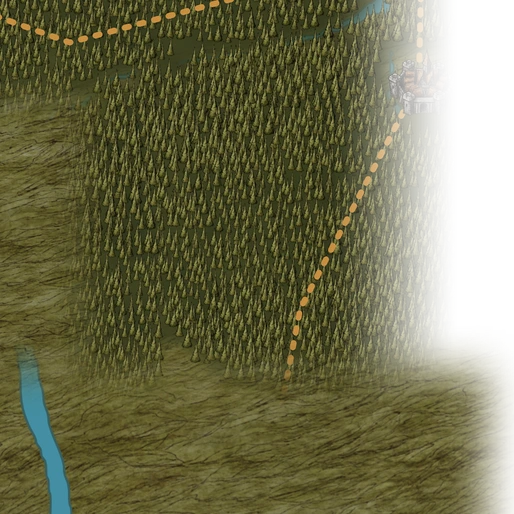
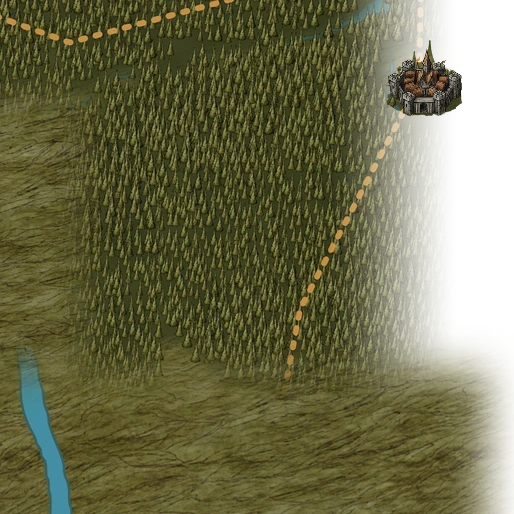
Keep Marellion artwork opaque at the northern map boundary

Changed region(s): [[0.7471, 0.0934, 0.9027, 0.249]]

diff --git a/souvisla-tara/config.js b/souvisla-tara/config.js
@@ -1,1 +1,1 @@
-window.CONTINUOUS_TARA={"bounds":[0,-60,800,695],"densities":[2.5,5,10,20],"tile":512,"present":{"dalavsky":{"0":["0-0","1-0","2-0","3-0","0-1","1-1","2-1","3-1","0-2","1-2","2-2","3-2","0-3","1-3","2-3","3-3"],"1":["2-0","3-0","4-0","5-0","0-1","1-1","2-1","3-1","4-1","5-1","6-1","7-1","0-2","1-2","2-2","3-2","4-2","5-2","0-3","1-3","2-3","3-3","4-3","5-3","6-3","0-4","1-4","2-4","3-4","4-4","5-4","6-4","0-5","1-5","2-5","3-5","4-5","5-5","6-5","0-6","1-6","2-6","3-6","4-6","5-6","6-6"],"2":["4-0","5-0","6-0","7-0","8-0","9-0","10-0","11-0","4-1","5-1","6-1","7-1","8-1","9-1","10-1","11-1","1-2","2-2","3-2","4-2","5-2","6-2","7-2","8-2","9-2","10-2","11-2","13-2","14-2","15-2","0-3","1-3","2-3","3-3","4-3","5-3","6-3","7-3","8-3","9-3","10-3","11-3","13-3","14-3","15-3","0-4","1-4","2-4","3-4","4-4","5-4","6-4","7-4","8-4","9-4","10-4","11-4","0-5","1-5","2-5","3-5","4-5","5-5","6-5","7-5","8-5","9-5","10-5","11-5","0-6","1-6","2-6","3-6","4-6","5-6","6-6","7-6","8-6","9-6","10-6","11-6","0-7","1-7","2-7","3-7","4-7","5-7","6-7","7-7","8-7","9-7","10-7","11-7","12-7","0-8","1-8","2-8","3-8","4-8","5-8","6-8","7-8","8-8","9-8","10-8","11-8","12-8","0-9","1-9","2-9","3-9","4-9","5-9","6-9","7-9","8-9","9-9","10-9","11-9","12-9","0-10","1-10","2-10","3-10","4-10","5-10","6-10","7-10","8-10","9-10","10-10","11-10","12-10","0-11","1-11","2-11","3-11","4-11","5-11","6-11","7-11","8-11","9-11","10-11","11-11","12-11","0-12","1-12","2-12","3-12","4-12","5-12","6-12","7-12","8-12","9-12","10-12","11-12","12-12","5-13","6-13","7-13","8-13","9-13","10-13"],"3":["8-0","9-0","10-0","11-0","12-0","13-0","14-0","15-0","16-0","17-0","18-0","19-0","20-0","21-0","22-0","8-1","9-1","10-1","11-1","12-1","13-1","14-1","15-1","16-1","17-1","18-1","19-1","20-1","21-1","22-1","8-2","9-2","10-2","11-2","12-2","13-2","14-2","15-2","16-2","17-2","18-2","19-2","20-2","21-2","22-2","23-2","8-3","9-3","10-3","11-3","12-3","13-3","14-3","15-3","16-3","17-3","18-3","19-3","20-3","21-3","22-3","23-3","8-4","9-4","10-4","11-4","12-4","13-4","14-4","15-4","16-4","17-4","18-4","19-4","20-4","21-4","22-4","23-4","26-4","27-4","28-4","29-4","30-4","3-5","4-5","5-5","6-5","7-5","8-5","9-5","10-5","11-5","12-5","13-5","14-5","15-5","16-5","17-5","18-5","19-5","20-5","21-5","22-5","23-5","26-5","27-5","28-5","29-5","30-5","3-6","4-6","5-6","6-6","7-6","8-6","9-6","10-6","11-6","12-6","13-6","14-6","15-6","16-6","17-6","18-6","19-6","20-6","21-6","22-6","23-6","26-6","27-6","28-6","29-6","30-6","0-7","1-7","2-7","3-7","4-7","5-7","6-7","7-7","8-7","9-7","10-7","11-7","12-7","13-7","14-7","15-7","16-7","17-7","18-7","19-7","20-7","21-7","22-7","26-7","27-7","28-7","29-7","30-7","0-8","1-8","2-8","3-8","4-8","5-8","6-8","7-8","8-8","9-8","10-8","11-8","12-8","13-8","14-8","15-8","16-8","17-8","18-8","19-8","20-8","21-8","22-8","23-8","0-9","1-9","2-9","3-9","4-9","5-9","6-9","7-9","8-9","9-9","10-9","11-9","12-9","13-9","14-9","15-9","16-9","17-9","18-9","19-9","20-9","21-9","22-9","23-9","0-10","1-10","2-10","3-10","4-10","5-10","6-10","7-10","8-10","9-10","10-10","11-10","12-10","13-10","14-10","15-10","16-10","17-10","18-10","19-10","20-10","21-10","22-10","23-10","0-11","1-11","2-11","3-11","4-11","5-11","6-11","7-11","8-11","9-11","10-11","11-11","12-11","13-11","14-11","15-11","16-11","17-11","18-11","19-11","20-11","21-11","22-11","23-11","0-12","1-12","2-12","3-12","4-12","5-12","6-12","7-12","8-12","9-12","10-12","11-12","12-12","13-12","14-12","15-12","16-12","17-12","18-12","19-12","20-12","21-12","22-12","23-12","0-13","1-13","2-13","3-13","4-13","5-13","6-13","7-13","8-13","9-13","10-13","11-13","12-13","13-13","14-13","15-13","16-13","17-13","18-13","19-13","20-13","21-13","22-13","23-13","0-14","1-14","2-14","3-14","4-14","5-14","6-14","7-14","8-14","9-14","10-14","11-14","12-14","13-14","14-14","15-14","16-14","17-14","18-14","19-14","20-14","21-14","22-14","23-14","0-15","1-15","2-15","3-15","4-15","5-15","6-15","7-15","8-15","9-15","10-15","11-15","12-15","13-15","14-15","15-15","16-15","17-15","18-15","19-15","20-15","21-15","22-15","23-15","24-15","0-16","1-16","2-16","3-16","4-16","5-16","6-16","7-16","8-16","9-16","10-16","11-16","12-16","13-16","14-16","15-16","16-16","17-16","18-16","19-16","20-16","21-16","22-16","23-16","24-16","0-17","1-17","2-17","3-17","4-17","5-17","6-17","7-17","8-17","9-17","10-17","11-17","12-17","13-17","14-17","15-17","16-17","17-17","18-17","19-17","20-17","21-17","22-17","23-17","24-17","0-18","1-18","2-18","3-18","4-18","5-18","6-18","7-18","8-18","9-18","10-18","11-18","12-18","13-18","14-18","15-18","16-18","17-18","18-18","19-18","20-18","21-18","22-18","23-18","24-18","0-19","1-19","2-19","3-19","4-19","5-19","6-19","7-19","8-19","9-19","10-19","11-19","12-19","13-19","14-19","15-19","16-19","17-19","18-19","19-19","20-19","21-19","22-19","23-19","24-19","0-20","1-20","2-20","3-20","4-20","5-20","6-20","7-20","8-20","9-20","10-20","11-20","12-20","13-20","14-20","15-20","16-20","17-20","18-20","19-20","20-20","21-20","22-20","23-20","24-20","0-21","1-21","2-21","3-21","4-21","5-21","6-21","7-21","8-21","9-21","10-21","11-21","12-21","13-21","14-21","15-21","16-21","17-21","18-21","19-21","20-21","21-21","22-21","23-21","24-21","0-22","1-22","2-22","3-22","4-22","5-22","6-22","7-22","8-22","9-22","10-22","11-22","12-22","13-22","14-22","15-22","16-22","17-22","18-22","19-22","20-22","21-22","22-22","23-22","24-22","0-23","1-23","2-23","3-23","4-23","5-23","6-23","7-23","8-23","9-23","10-23","11-23","12-23","13-23","14-23","15-23","16-23","17-23","18-23","19-23","20-23","21-23","22-23","23-23","24-23","1-24","2-24","3-24","4-24","5-24","6-24","7-24","8-24","9-24","10-24","11-24","12-24","13-24","14-24","15-24","16-24","17-24","18-24","19-24","20-24","21-24","22-24","23-24","24-24","2-25","3-25","4-25","5-25","6-25","7-25","8-25","9-25","10-25","11-25","12-25","13-25","14-25","15-25","16-25","17-25","18-25","19-25","20-25","21-25","10-26","11-26","12-26","13-26","14-26","15-26","16-26","17-26","18-26","19-26","20-26","21-26"]},"s":{"0":["0-0","1-0","2-0","3-0","0-1","1-1","2-1","3-1","0-2","1-2","2-2","3-2","0-3","1-3","2-3","3-3"],"1":["2-0","3-0","4-0","5-0","0-1","1-1","2-1","3-1","4-1","5-1","6-1","7-1","0-2","1-2","2-2","3-2","4-2","5-2","0-3","1-3","2-3","3-3","4-3","5-3","6-3","0-4","1-4","2-4","3-4","4-4","5-4","6-4","0-5","1-5","2-5","3-5","4-5","5-5","6-5","0-6","1-6","2-6","3-6","4-6","5-6","6-6"],"2":["4-0","5-0","6-0","7-0","8-0","9-0","10-0","11-0","4-1","5-1","6-1","7-1","8-1","9-1","10-1","11-1","1-2","2-2","3-2","4-2","5-2","6-2","7-2","8-2","9-2","10-2","11-2","13-2","14-2","15-2","0-3","1-3","2-3","3-3","4-3","5-3","6-3","7-3","8-3","9-3","10-3","11-3","13-3","14-3","15-3","0-4","1-4","2-4","3-4","4-4","5-4","6-4","7-4","8-4","9-4","10-4","11-4","0-5","1-5","2-5","3-5","4-5","5-5","6-5","7-5","8-5","9-5","10-5","11-5","0-6","1-6","2-6","3-6","4-6","5-6","6-6","7-6","8-6","9-6","10-6","11-6","0-7","1-7","2-7","3-7","4-7","5-7","6-7","7-7","8-7","9-7","10-7","11-7","12-7","0-8","1-8","2-8","3-8","4-8","5-8","6-8","7-8","8-8","9-8","10-8","11-8","12-8","0-9","1-9","2-9","3-9","4-9","5-9","6-9","7-9","8-9","9-9","10-9","11-9","12-9","0-10","1-10","2-10","3-10","4-10","5-10","6-10","7-10","8-10","9-10","10-10","11-10","12-10","0-11","1-11","2-11","3-11","4-11","5-11","6-11","7-11","8-11","9-11","10-11","11-11","12-11","0-12","1-12","2-12","3-12","4-12","5-12","6-12","7-12","8-12","9-12","10-12","11-12","12-12","5-13","6-13","7-13","8-13","9-13","10-13"],"3":["8-0","9-0","10-0","11-0","12-0","13-0","14-0","15-0","16-0","17-0","18-0","19-0","20-0","21-0","22-0","8-1","9-1","10-1","11-1","12-1","13-1","14-1","15-1","16-1","17-1","18-1","19-1","20-1","21-1","22-1","8-2","9-2","10-2","11-2","12-2","13-2","14-2","15-2","16-2","17-2","18-2","19-2","20-2","21-2","22-2","23-2","8-3","9-3","10-3","11-3","12-3","13-3","14-3","15-3","16-3","17-3","18-3","19-3","20-3","21-3","22-3","23-3","8-4","9-4","10-4","11-4","12-4","13-4","14-4","15-4","16-4","17-4","18-4","19-4","20-4","21-4","22-4","23-4","26-4","27-4","28-4","29-4","30-4","3-5","4-5","5-5","6-5","7-5","8-5","9-5","10-5","11-5","12-5","13-5","14-5","15-5","16-5","17-5","18-5","19-5","20-5","21-5","22-5","23-5","26-5","27-5","28-5","29-5","30-5","3-6","4-6","5-6","6-6","7-6","8-6","9-6","10-6","11-6","12-6","13-6","14-6","15-6","16-6","17-6","18-6","19-6","20-6","21-6","22-6","23-6","26-6","27-6","28-6","29-6","30-6","0-7","1-7","2-7","3-7","4-7","5-7","6-7","7-7","8-7","9-7","10-7","11-7","12-7","13-7","14-7","15-7","16-7","17-7","18-7","19-7","20-7","21-7","22-7","26-7","27-7","28-7","29-7","30-7","0-8","1-8","2-8","3-8","4-8","5-8","6-8","7-8","8-8","9-8","10-8","11-8","12-8","13-8","14-8","15-8","16-8","17-8","18-8","19-8","20-8","21-8","22-8","23-8","0-9","1-9","2-9","3-9","4-9","5-9","6-9","7-9","8-9","9-9","10-9","11-9","12-9","13-9","14-9","15-9","16-9","17-9","18-9","19-9","20-9","21-9","22-9","23-9","0-10","1-10","2-10","3-10","4-10","5-10","6-10","7-10","8-10","9-10","10-10","11-10","12-10","13-10","14-10","15-10","16-10","17-10","18-10","19-10","20-10","21-10","22-10","23-10","0-11","1-11","2-11","3-11","4-11","5-11","6-11","7-11","8-11","9-11","10-11","11-11","12-11","13-11","14-11","15-11","16-11","17-11","18-11","19-11","20-11","21-11","22-11","23-11","0-12","1-12","2-12","3-12","4-12","5-12","6-12","7-12","8-12","9-12","10-12","11-12","12-12","13-12","14-12","15-12","16-12","17-12","18-12","19-12","20-12","21-12","22-12","23-12","0-13","1-13","2-13","3-13","4-13","5-13","6-13","7-13","8-13","9-13","10-13","11-13","12-13","13-13","14-13","15-13","16-13","17-13","18-13","19-13","20-13","21-13","22-13","23-13","0-14","1-14","2-14","3-14","4-14","5-14","6-14","7-14","8-14","9-14","10-14","11-14","12-14","13-14","14-14","15-14","16-14","17-14","18-14","19-14","20-14","21-14","22-14","23-14","0-15","1-15","2-15","3-15","4-15","5-15","6-15","7-15","8-15","9-15","10-15","11-15","12-15","13-15","14-15","15-15","16-15","17-15","18-15","19-15","20-15","21-15","22-15","23-15","24-15","0-16","1-16","2-16","3-16","4-16","5-16","6-16","7-16","8-16","9-16","10-16","11-16","12-16","13-16","14-16","15-16","16-16","17-16","18-16","19-16","20-16","21-16","22-16","23-16","24-16","0-17","1-17","2-17","3-17","4-17","5-17","6-17","7-17","8-17","9-17","10-17","11-17","12-17","13-17","14-17","15-17","16-17","17-17","18-17","19-17","20-17","21-17","22-17","23-17","24-17","0-18","1-18","2-18","3-18","4-18","5-18","6-18","7-18","8-18","9-18","10-18","11-18","12-18","13-18","14-18","15-18","16-18","17-18","18-18","19-18","20-18","21-18","22-18","23-18","24-18","0-19","1-19","2-19","3-19","4-19","5-19","6-19","7-19","8-19","9-19","10-19","11-19","12-19","13-19","14-19","15-19","16-19","17-19","18-19","19-19","20-19","21-19","22-19","23-19","24-19","0-20","1-20","2-20","3-20","4-20","5-20","6-20","7-20","8-20","9-20","10-20","11-20","12-20","13-20","14-20","15-20","16-20","17-20","18-20","19-20","20-20","21-20","22-20","23-20","24-20","0-21","1-21","2-21","3-21","4-21","5-21","6-21","7-21","8-21","9-21","10-21","11-21","12-21","13-21","14-21","15-21","16-21","17-21","18-21","19-21","20-21","21-21","22-21","23-21","24-21","0-22","1-22","2-22","3-22","4-22","5-22","6-22","7-22","8-22","9-22","10-22","11-22","12-22","13-22","14-22","15-22","16-22","17-22","18-22","19-22","20-22","21-22","22-22","23-22","24-22","0-23","1-23","2-23","3-23","4-23","5-23","6-23","7-23","8-23","9-23","10-23","11-23","12-23","13-23","14-23","15-23","16-23","17-23","18-23","19-23","20-23","21-23","22-23","23-23","24-23","1-24","2-24","3-24","4-24","5-24","6-24","7-24","8-24","9-24","10-24","11-24","12-24","13-24","14-24","15-24","16-24","17-24","18-24","19-24","20-24","21-24","22-24","23-24","24-24","2-25","3-25","4-25","5-25","6-25","7-25","8-25","9-25","10-25","11-25","12-25","13-25","14-25","15-25","16-25","17-25","18-25","19-25","20-25","21-25","10-26","11-26","12-26","13-26","14-26","15-26","16-26","17-26","18-26","19-26","20-26","21-26"]},"d":{"0":["0-0","1-0","2-0","3-0","0-1","1-1","2-1","3-1","0-2","1-2","2-2","3-2","0-3","1-3","2-3","3-3"],"1":["2-0","3-0","4-0","5-0","0-1","1-1","2-1","3-1","4-1","5-1","6-1","7-1","0-2","1-2","2-2","3-2","4-2","5-2","0-3","1-3","2-3","3-3","4-3","5-3","6-3","0-4","1-4","2-4","3-4","4-4","5-4","6-4","0-5","1-5","2-5","3-5","4-5","5-5","6-5","0-6","1-6","2-6","3-6","4-6","5-6","6-6"],"2":["4-0","5-0","6-0","7-0","8-0","9-0","10-0","11-0","4-1","5-1","6-1","7-1","8-1","9-1","10-1","11-1","1-2","2-2","3-2","4-2","5-2","6-2","7-2","8-2","9-2","10-2","11-2","13-2","14-2","15-2","0-3","1-3","2-3","3-3","4-3","5-3","6-3","7-3","8-3","9-3","10-3","11-3","13-3","14-3","15-3","0-4","1-4","2-4","3-4","4-4","5-4","6-4","7-4","8-4","9-4","10-4","11-4","0-5","1-5","2-5","3-5","4-5","5-5","6-5","7-5","8-5","9-5","10-5","11-5","0-6","1-6","2-6","3-6","4-6","5-6","6-6","7-6","8-6","9-6","10-6","11-6","0-7","1-7","2-7","3-7","4-7","5-7","6-7","7-7","8-7","9-7","10-7","11-7","12-7","0-8","1-8","2-8","3-8","4-8","5-8","6-8","7-8","8-8","9-8","10-8","11-8","12-8","0-9","1-9","2-9","3-9","4-9","5-9","6-9","7-9","8-9","9-9","10-9","11-9","12-9","0-10","1-10","2-10","3-10","4-10","5-10","6-10","7-10","8-10","9-10","10-10","11-10","12-10","0-11","1-11","2-11","3-11","4-11","5-11","6-11","7-11","8-11","9-11","10-11","11-11","12-11","0-12","1-12","2-12","3-12","4-12","5-12","6-12","7-12","8-12","9-12","10-12","11-12","12-12","5-13","6-13","7-13","8-13","9-13","10-13"],"3":["8-0","9-0","10-0","11-0","12-0","13-0","14-0","15-0","16-0","17-0","18-0","19-0","20-0","21-0","22-0","8-1","9-1","10-1","11-1","12-1","13-1","14-1","15-1","16-1","17-1","18-1","19-1","20-1","21-1","22-1","8-2","9-2","10-2","11-2","12-2","13-2","14-2","15-2","16-2","17-2","18-2","19-2","20-2","21-2","22-2","23-2","8-3","9-3","10-3","11-3","12-3","13-3","14-3","15-3","16-3","17-3","18-3","19-3","20-3","21-3","22-3","23-3","8-4","9-4","10-4","11-4","12-4","13-4","14-4","15-4","16-4","17-4","18-4","19-4","20-4","21-4","22-4","23-4","26-4","27-4","28-4","29-4","30-4","3-5","4-5","5-5","6-5","7-5","8-5","9-5","10-5","11-5","12-5","13-5","14-5","15-5","16-5","17-5","18-5","19-5","20-5","21-5","22-5","23-5","26-5","27-5","28-5","29-5","30-5","3-6","4-6","5-6","6-6","7-6","8-6","9-6","10-6","11-6","12-6","13-6","14-6","15-6","16-6","17-6","18-6","19-6","20-6","21-6","22-6","23-6","26-6","27-6","28-6","29-6","30-6","0-7","1-7","2-7","3-7","4-7","5-7","6-7","7-7","8-7","9-7","10-7","11-7","12-7","13-7","14-7","15-7","16-7","17-7","18-7","19-7","20-7","21-7","22-7","26-7","27-7","28-7","29-7","30-7","0-8","1-8","2-8","3-8","4-8","5-8","6-8","7-8","8-8","9-8","10-8","11-8","12-8","13-8","14-8","15-8","16-8","17-8","18-8","19-8","20-8","21-8","22-8","23-8","0-9","1-9","2-9","3-9","4-9","5-9","6-9","7-9","8-9","9-9","10-9","11-9","12-9","13-9","14-9","15-9","16-9","17-9","18-9","19-9","20-9","21-9","22-9","23-9","0-10","1-10","2-10","3-10","4-10","5-10","6-10","7-10","8-10","9-10","10-10","11-10","12-10","13-10","14-10","15-10","16-10","17-10","18-10","19-10","20-10","21-10","22-10","23-10","0-11","1-11","2-11","3-11","4-11","5-11","6-11","7-11","8-11","9-11","10-11","11-11","12-11","13-11","14-11","15-11","16-11","17-11","18-11","19-11","20-11","21-11","22-11","23-11","0-12","1-12","2-12","3-12","4-12","5-12","6-12","7-12","8-12","9-12","10-12","11-12","12-12","13-12","14-12","15-12","16-12","17-12","18-12","19-12","20-12","21-12","22-12","23-12","0-13","1-13","2-13","3-13","4-13","5-13","6-13","7-13","8-13","9-13","10-13","11-13","12-13","13-13","14-13","15-13","16-13","17-13","18-13","19-13","20-13","21-13","22-13","23-13","0-14","1-14","2-14","3-14","4-14","5-14","6-14","7-14","8-14","9-14","10-14","11-14","12-14","13-14","14-14","15-14","16-14","17-14","18-14","19-14","20-14","21-14","22-14","23-14","0-15","1-15","2-15","3-15","4-15","5-15","6-15","7-15","8-15","9-15","10-15","11-15","12-15","13-15","14-15","15-15","16-15","17-15","18-15","19-15","20-15","21-15","22-15","23-15","24-15","0-16","1-16","2-16","3-16","4-16","5-16","6-16","7-16","8-16","9-16","10-16","11-16","12-16","13-16","14-16","15-16","16-16","17-16","18-16","19-16","20-16","21-16","22-16","23-16","24-16","0-17","1-17","2-17","3-17","4-17","5-17","6-17","7-17","8-17","9-17","10-17","11-17","12-17","13-17","14-17","15-17","16-17","17-17","18-17","19-17","20-17","21-17","22-17","23-17","24-17","0-18","1-18","2-18","3-18","4-18","5-18","6-18","7-18","8-18","9-18","10-18","11-18","12-18","13-18","14-18","15-18","16-18","17-18","18-18","19-18","20-18","21-18","22-18","23-18","24-18","0-19","1-19","2-19","3-19","4-19","5-19","6-19","7-19","8-19","9-19","10-19","11-19","12-19","13-19","14-19","15-19","16-19","17-19","18-19","19-19","20-19","21-19","22-19","23-19","24-19","0-20","1-20","2-20","3-20","4-20","5-20","6-20","7-20","8-20","9-20","10-20","11-20","12-20","13-20","14-20","15-20","16-20","17-20","18-20","19-20","20-20","21-20","22-20","23-20","24-20","0-21","1-21","2-21","3-21","4-21","5-21","6-21","7-21","8-21","9-21","10-21","11-21","12-21","13-21","14-21","15-21","16-21","17-21","18-21","19-21","20-21","21-21","22-21","23-21","24-21","0-22","1-22","2-22","3-22","4-22","5-22","6-22","7-22","8-22","9-22","10-22","11-22","12-22","13-22","14-22","15-22","16-22","17-22","18-22","19-22","20-22","21-22","22-22","23-22","24-22","0-23","1-23","2-23","3-23","4-23","5-23","6-23","7-23","8-23","9-23","10-23","11-23","12-23","13-23","14-23","15-23","16-23","17-23","18-23","19-23","20-23","21-23","22-23","23-23","24-23","1-24","2-24","3-24","4-24","5-24","6-24","7-24","8-24","9-24","10-24","11-24","12-24","13-24","14-24","15-24","16-24","17-24","18-24","19-24","20-24","21-24","22-24","23-24","24-24","2-25","3-25","4-25","5-25","6-25","7-25","8-25","9-25","10-25","11-25","12-25","13-25","14-25","15-25","16-25","17-25","18-25","19-25","20-25","21-25","10-26","11-26","12-26","13-26","14-26","15-26","16-26","17-26","18-26","19-26","20-26","21-26"]}},"version":"20261111t"};
+window.CONTINUOUS_TARA={"bounds":[0,-60,800,695],"densities":[2.5,5,10,20],"tile":512,"present":{"dalavsky":{"0":["0-0","1-0","2-0","3-0","0-1","1-1","2-1","3-1","0-2","1-2","2-2","3-2","0-3","1-3","2-3","3-3"],"1":["2-0","3-0","4-0","5-0","0-1","1-1","2-1","3-1","4-1","5-1","6-1","7-1","0-2","1-2","2-2","3-2","4-2","5-2","0-3","1-3","2-3","3-3","4-3","5-3","6-3","0-4","1-4","2-4","3-4","4-4","5-4","6-4","0-5","1-5","2-5","3-5","4-5","5-5","6-5","0-6","1-6","2-6","3-6","4-6","5-6","6-6"],"2":["4-0","5-0","6-0","7-0","8-0","9-0","10-0","11-0","4-1","5-1","6-1","7-1","8-1","9-1","10-1","11-1","1-2","2-2","3-2","4-2","5-2","6-2","7-2","8-2","9-2","10-2","11-2","13-2","14-2","15-2","0-3","1-3","2-3","3-3","4-3","5-3","6-3","7-3","8-3","9-3","10-3","11-3","13-3","14-3","15-3","0-4","1-4","2-4","3-4","4-4","5-4","6-4","7-4","8-4","9-4","10-4","11-4","0-5","1-5","2-5","3-5","4-5","5-5","6-5","7-5","8-5","9-5","10-5","11-5","0-6","1-6","2-6","3-6","4-6","5-6","6-6","7-6","8-6","9-6","10-6","11-6","0-7","1-7","2-7","3-7","4-7","5-7","6-7","7-7","8-7","9-7","10-7","11-7","12-7","0-8","1-8","2-8","3-8","4-8","5-8","6-8","7-8","8-8","9-8","10-8","11-8","12-8","0-9","1-9","2-9","3-9","4-9","5-9","6-9","7-9","8-9","9-9","10-9","11-9","12-9","0-10","1-10","2-10","3-10","4-10","5-10","6-10","7-10","8-10","9-10","10-10","11-10","12-10","0-11","1-11","2-11","3-11","4-11","5-11","6-11","7-11","8-11","9-11","10-11","11-11","12-11","0-12","1-12","2-12","3-12","4-12","5-12","6-12","7-12","8-12","9-12","10-12","11-12","12-12","5-13","6-13","7-13","8-13","9-13","10-13"],"3":["8-0","9-0","10-0","11-0","12-0","13-0","14-0","15-0","16-0","17-0","18-0","19-0","20-0","21-0","22-0","8-1","9-1","10-1","11-1","12-1","13-1","14-1","15-1","16-1","17-1","18-1","19-1","20-1","21-1","22-1","8-2","9-2","10-2","11-2","12-2","13-2","14-2","15-2","16-2","17-2","18-2","19-2","20-2","21-2","22-2","23-2","8-3","9-3","10-3","11-3","12-3","13-3","14-3","15-3","16-3","17-3","18-3","19-3","20-3","21-3","22-3","23-3","8-4","9-4","10-4","11-4","12-4","13-4","14-4","15-4","16-4","17-4","18-4","19-4","20-4","21-4","22-4","23-4","26-4","27-4","28-4","29-4","30-4","3-5","4-5","5-5","6-5","7-5","8-5","9-5","10-5","11-5","12-5","13-5","14-5","15-5","16-5","17-5","18-5","19-5","20-5","21-5","22-5","23-5","26-5","27-5","28-5","29-5","30-5","3-6","4-6","5-6","6-6","7-6","8-6","9-6","10-6","11-6","12-6","13-6","14-6","15-6","16-6","17-6","18-6","19-6","20-6","21-6","22-6","23-6","26-6","27-6","28-6","29-6","30-6","0-7","1-7","2-7","3-7","4-7","5-7","6-7","7-7","8-7","9-7","10-7","11-7","12-7","13-7","14-7","15-7","16-7","17-7","18-7","19-7","20-7","21-7","22-7","26-7","27-7","28-7","29-7","30-7","0-8","1-8","2-8","3-8","4-8","5-8","6-8","7-8","8-8","9-8","10-8","11-8","12-8","13-8","14-8","15-8","16-8","17-8","18-8","19-8","20-8","21-8","22-8","23-8","0-9","1-9","2-9","3-9","4-9","5-9","6-9","7-9","8-9","9-9","10-9","11-9","12-9","13-9","14-9","15-9","16-9","17-9","18-9","19-9","20-9","21-9","22-9","23-9","0-10","1-10","2-10","3-10","4-10","5-10","6-10","7-10","8-10","9-10","10-10","11-10","12-10","13-10","14-10","15-10","16-10","17-10","18-10","19-10","20-10","21-10","22-10","23-10","0-11","1-11","2-11","3-11","4-11","5-11","6-11","7-11","8-11","9-11","10-11","11-11","12-11","13-11","14-11","15-11","16-11","17-11","18-11","19-11","20-11","21-11","22-11","23-11","0-12","1-12","2-12","3-12","4-12","5-12","6-12","7-12","8-12","9-12","10-12","11-12","12-12","13-12","14-12","15-12","16-12","17-12","18-12","19-12","20-12","21-12","22-12","23-12","0-13","1-13","2-13","3-13","4-13","5-13","6-13","7-13","8-13","9-13","10-13","11-13","12-13","13-13","14-13","15-13","16-13","17-13","18-13","19-13","20-13","21-13","22-13","23-13","0-14","1-14","2-14","3-14","4-14","5-14","6-14","7-14","8-14","9-14","10-14","11-14","12-14","13-14","14-14","15-14","16-14","17-14","18-14","19-14","20-14","21-14","22-14","23-14","0-15","1-15","2-15","3-15","4-15","5-15","6-15","7-15","8-15","9-15","10-15","11-15","12-15","13-15","14-15","15-15","16-15","17-15","18-15","19-15","20-15","21-15","22-15","23-15","24-15","0-16","1-16","2-16","3-16","4-16","5-16","6-16","7-16","8-16","9-16","10-16","11-16","12-16","13-16","14-16","15-16","16-16","17-16","18-16","19-16","20-16","21-16","22-16","23-16","24-16","0-17","1-17","2-17","3-17","4-17","5-17","6-17","7-17","8-17","9-17","10-17","11-17","12-17","13-17","14-17","15-17","16-17","17-17","18-17","19-17","20-17","21-17","22-17","23-17","24-17","0-18","1-18","2-18","3-18","4-18","5-18","6-18","7-18","8-18","9-18","10-18","11-18","12-18","13-18","14-18","15-18","16-18","17-18","18-18","19-18","20-18","21-18","22-18","23-18","24-18","0-19","1-19","2-19","3-19","4-19","5-19","6-19","7-19","8-19","9-19","10-19","11-19","12-19","13-19","14-19","15-19","16-19","17-19","18-19","19-19","20-19","21-19","22-19","23-19","24-19","0-20","1-20","2-20","3-20","4-20","5-20","6-20","7-20","8-20","9-20","10-20","11-20","12-20","13-20","14-20","15-20","16-20","17-20","18-20","19-20","20-20","21-20","22-20","23-20","24-20","0-21","1-21","2-21","3-21","4-21","5-21","6-21","7-21","8-21","9-21","10-21","11-21","12-21","13-21","14-21","15-21","16-21","17-21","18-21","19-21","20-21","21-21","22-21","23-21","24-21","0-22","1-22","2-22","3-22","4-22","5-22","6-22","7-22","8-22","9-22","10-22","11-22","12-22","13-22","14-22","15-22","16-22","17-22","18-22","19-22","20-22","21-22","22-22","23-22","24-22","0-23","1-23","2-23","3-23","4-23","5-23","6-23","7-23","8-23","9-23","10-23","11-23","12-23","13-23","14-23","15-23","16-23","17-23","18-23","19-23","20-23","21-23","22-23","23-23","24-23","1-24","2-24","3-24","4-24","5-24","6-24","7-24","8-24","9-24","10-24","11-24","12-24","13-24","14-24","15-24","16-24","17-24","18-24","19-24","20-24","21-24","22-24","23-24","24-24","2-25","3-25","4-25","5-25","6-25","7-25","8-25","9-25","10-25","11-25","12-25","13-25","14-25","15-25","16-25","17-25","18-25","19-25","20-25","21-25","10-26","11-26","12-26","13-26","14-26","15-26","16-26","17-26","18-26","19-26","20-26","21-26"]},"s":{"0":["0-0","1-0","2-0","3-0","0-1","1-1","2-1","3-1","0-2","1-2","2-2","3-2","0-3","1-3","2-3","3-3"],"1":["2-0","3-0","4-0","5-0","0-1","1-1","2-1","3-1","4-1","5-1","6-1","7-1","0-2","1-2","2-2","3-2","4-2","5-2","0-3","1-3","2-3","3-3","4-3","5-3","6-3","0-4","1-4","2-4","3-4","4-4","5-4","6-4","0-5","1-5","2-5","3-5","4-5","5-5","6-5","0-6","1-6","2-6","3-6","4-6","5-6","6-6"],"2":["4-0","5-0","6-0","7-0","8-0","9-0","10-0","11-0","4-1","5-1","6-1","7-1","8-1","9-1","10-1","11-1","1-2","2-2","3-2","4-2","5-2","6-2","7-2","8-2","9-2","10-2","11-2","13-2","14-2","15-2","0-3","1-3","2-3","3-3","4-3","5-3","6-3","7-3","8-3","9-3","10-3","11-3","13-3","14-3","15-3","0-4","1-4","2-4","3-4","4-4","5-4","6-4","7-4","8-4","9-4","10-4","11-4","0-5","1-5","2-5","3-5","4-5","5-5","6-5","7-5","8-5","9-5","10-5","11-5","0-6","1-6","2-6","3-6","4-6","5-6","6-6","7-6","8-6","9-6","10-6","11-6","0-7","1-7","2-7","3-7","4-7","5-7","6-7","7-7","8-7","9-7","10-7","11-7","12-7","0-8","1-8","2-8","3-8","4-8","5-8","6-8","7-8","8-8","9-8","10-8","11-8","12-8","0-9","1-9","2-9","3-9","4-9","5-9","6-9","7-9","8-9","9-9","10-9","11-9","12-9","0-10","1-10","2-10","3-10","4-10","5-10","6-10","7-10","8-10","9-10","10-10","11-10","12-10","0-11","1-11","2-11","3-11","4-11","5-11","6-11","7-11","8-11","9-11","10-11","11-11","12-11","0-12","1-12","2-12","3-12","4-12","5-12","6-12","7-12","8-12","9-12","10-12","11-12","12-12","5-13","6-13","7-13","8-13","9-13","10-13"],"3":["8-0","9-0","10-0","11-0","12-0","13-0","14-0","15-0","16-0","17-0","18-0","19-0","20-0","21-0","22-0","8-1","9-1","10-1","11-1","12-1","13-1","14-1","15-1","16-1","17-1","18-1","19-1","20-1","21-1","22-1","8-2","9-2","10-2","11-2","12-2","13-2","14-2","15-2","16-2","17-2","18-2","19-2","20-2","21-2","22-2","23-2","8-3","9-3","10-3","11-3","12-3","13-3","14-3","15-3","16-3","17-3","18-3","19-3","20-3","21-3","22-3","23-3","8-4","9-4","10-4","11-4","12-4","13-4","14-4","15-4","16-4","17-4","18-4","19-4","20-4","21-4","22-4","23-4","26-4","27-4","28-4","29-4","30-4","3-5","4-5","5-5","6-5","7-5","8-5","9-5","10-5","11-5","12-5","13-5","14-5","15-5","16-5","17-5","18-5","19-5","20-5","21-5","22-5","23-5","26-5","27-5","28-5","29-5","30-5","3-6","4-6","5-6","6-6","7-6","8-6","9-6","10-6","11-6","12-6","13-6","14-6","15-6","16-6","17-6","18-6","19-6","20-6","21-6","22-6","23-6","26-6","27-6","28-6","29-6","30-6","0-7","1-7","2-7","3-7","4-7","5-7","6-7","7-7","8-7","9-7","10-7","11-7","12-7","13-7","14-7","15-7","16-7","17-7","18-7","19-7","20-7","21-7","22-7","26-7","27-7","28-7","29-7","30-7","0-8","1-8","2-8","3-8","4-8","5-8","6-8","7-8","8-8","9-8","10-8","11-8","12-8","13-8","14-8","15-8","16-8","17-8","18-8","19-8","20-8","21-8","22-8","23-8","0-9","1-9","2-9","3-9","4-9","5-9","6-9","7-9","8-9","9-9","10-9","11-9","12-9","13-9","14-9","15-9","16-9","17-9","18-9","19-9","20-9","21-9","22-9","23-9","0-10","1-10","2-10","3-10","4-10","5-10","6-10","7-10","8-10","9-10","10-10","11-10","12-10","13-10","14-10","15-10","16-10","17-10","18-10","19-10","20-10","21-10","22-10","23-10","0-11","1-11","2-11","3-11","4-11","5-11","6-11","7-11","8-11","9-11","10-11","11-11","12-11","13-11","14-11","15-11","16-11","17-11","18-11","19-11","20-11","21-11","22-11","23-11","0-12","1-12","2-12","3-12","4-12","5-12","6-12","7-12","8-12","9-12","10-12","11-12","12-12","13-12","14-12","15-12","16-12","17-12","18-12","19-12","20-12","21-12","22-12","23-12","0-13","1-13","2-13","3-13","4-13","5-13","6-13","7-13","8-13","9-13","10-13","11-13","12-13","13-13","14-13","15-13","16-13","17-13","18-13","19-13","20-13","21-13","22-13","23-13","0-14","1-14","2-14","3-14","4-14","5-14","6-14","7-14","8-14","9-14","10-14","11-14","12-14","13-14","14-14","15-14","16-14","17-14","18-14","19-14","20-14","21-14","22-14","23-14","0-15","1-15","2-15","3-15","4-15","5-15","6-15","7-15","8-15","9-15","10-15","11-15","12-15","13-15","14-15","15-15","16-15","17-15","18-15","19-15","20-15","21-15","22-15","23-15","24-15","0-16","1-16","2-16","3-16","4-16","5-16","6-16","7-16","8-16","9-16","10-16","11-16","12-16","13-16","14-16","15-16","16-16","17-16","18-16","19-16","20-16","21-16","22-16","23-16","24-16","0-17","1-17","2-17","3-17","4-17","5-17","6-17","7-17","8-17","9-17","10-17","11-17","12-17","13-17","14-17","15-17","16-17","17-17","18-17","19-17","20-17","21-17","22-17","23-17","24-17","0-18","1-18","2-18","3-18","4-18","5-18","6-18","7-18","8-18","9-18","10-18","11-18","12-18","13-18","14-18","15-18","16-18","17-18","18-18","19-18","20-18","21-18","22-18","23-18","24-18","0-19","1-19","2-19","3-19","4-19","5-19","6-19","7-19","8-19","9-19","10-19","11-19","12-19","13-19","14-19","15-19","16-19","17-19","18-19","19-19","20-19","21-19","22-19","23-19","24-19","0-20","1-20","2-20","3-20","4-20","5-20","6-20","7-20","8-20","9-20","10-20","11-20","12-20","13-20","14-20","15-20","16-20","17-20","18-20","19-20","20-20","21-20","22-20","23-20","24-20","0-21","1-21","2-21","3-21","4-21","5-21","6-21","7-21","8-21","9-21","10-21","11-21","12-21","13-21","14-21","15-21","16-21","17-21","18-21","19-21","20-21","21-21","22-21","23-21","24-21","0-22","1-22","2-22","3-22","4-22","5-22","6-22","7-22","8-22","9-22","10-22","11-22","12-22","13-22","14-22","15-22","16-22","17-22","18-22","19-22","20-22","21-22","22-22","23-22","24-22","0-23","1-23","2-23","3-23","4-23","5-23","6-23","7-23","8-23","9-23","10-23","11-23","12-23","13-23","14-23","15-23","16-23","17-23","18-23","19-23","20-23","21-23","22-23","23-23","24-23","1-24","2-24","3-24","4-24","5-24","6-24","7-24","8-24","9-24","10-24","11-24","12-24","13-24","14-24","15-24","16-24","17-24","18-24","19-24","20-24","21-24","22-24","23-24","24-24","2-25","3-25","4-25","5-25","6-25","7-25","8-25","9-25","10-25","11-25","12-25","13-25","14-25","15-25","16-25","17-25","18-25","19-25","20-25","21-25","10-26","11-26","12-26","13-26","14-26","15-26","16-26","17-26","18-26","19-26","20-26","21-26"]},"d":{"0":["0-0","1-0","2-0","3-0","0-1","1-1","2-1","3-1","0-2","1-2","2-2","3-2","0-3","1-3","2-3","3-3"],"1":["2-0","3-0","4-0","5-0","0-1","1-1","2-1","3-1","4-1","5-1","6-1","7-1","0-2","1-2","2-2","3-2","4-2","5-2","0-3","1-3","2-3","3-3","4-3","5-3","6-3","0-4","1-4","2-4","3-4","4-4","5-4","6-4","0-5","1-5","2-5","3-5","4-5","5-5","6-5","0-6","1-6","2-6","3-6","4-6","5-6","6-6"],"2":["4-0","5-0","6-0","7-0","8-0","9-0","10-0","11-0","4-1","5-1","6-1","7-1","8-1","9-1","10-1","11-1","1-2","2-2","3-2","4-2","5-2","6-2","7-2","8-2","9-2","10-2","11-2","13-2","14-2","15-2","0-3","1-3","2-3","3-3","4-3","5-3","6-3","7-3","8-3","9-3","10-3","11-3","13-3","14-3","15-3","0-4","1-4","2-4","3-4","4-4","5-4","6-4","7-4","8-4","9-4","10-4","11-4","0-5","1-5","2-5","3-5","4-5","5-5","6-5","7-5","8-5","9-5","10-5","11-5","0-6","1-6","2-6","3-6","4-6","5-6","6-6","7-6","8-6","9-6","10-6","11-6","0-7","1-7","2-7","3-7","4-7","5-7","6-7","7-7","8-7","9-7","10-7","11-7","12-7","0-8","1-8","2-8","3-8","4-8","5-8","6-8","7-8","8-8","9-8","10-8","11-8","12-8","0-9","1-9","2-9","3-9","4-9","5-9","6-9","7-9","8-9","9-9","10-9","11-9","12-9","0-10","1-10","2-10","3-10","4-10","5-10","6-10","7-10","8-10","9-10","10-10","11-10","12-10","0-11","1-11","2-11","3-11","4-11","5-11","6-11","7-11","8-11","9-11","10-11","11-11","12-11","0-12","1-12","2-12","3-12","4-12","5-12","6-12","7-12","8-12","9-12","10-12","11-12","12-12","5-13","6-13","7-13","8-13","9-13","10-13"],"3":["8-0","9-0","10-0","11-0","12-0","13-0","14-0","15-0","16-0","17-0","18-0","19-0","20-0","21-0","22-0","8-1","9-1","10-1","11-1","12-1","13-1","14-1","15-1","16-1","17-1","18-1","19-1","20-1","21-1","22-1","8-2","9-2","10-2","11-2","12-2","13-2","14-2","15-2","16-2","17-2","18-2","19-2","20-2","21-2","22-2","23-2","8-3","9-3","10-3","11-3","12-3","13-3","14-3","15-3","16-3","17-3","18-3","19-3","20-3","21-3","22-3","23-3","8-4","9-4","10-4","11-4","12-4","13-4","14-4","15-4","16-4","17-4","18-4","19-4","20-4","21-4","22-4","23-4","26-4","27-4","28-4","29-4","30-4","3-5","4-5","5-5","6-5","7-5","8-5","9-5","10-5","11-5","12-5","13-5","14-5","15-5","16-5","17-5","18-5","19-5","20-5","21-5","22-5","23-5","26-5","27-5","28-5","29-5","30-5","3-6","4-6","5-6","6-6","7-6","8-6","9-6","10-6","11-6","12-6","13-6","14-6","15-6","16-6","17-6","18-6","19-6","20-6","21-6","22-6","23-6","26-6","27-6","28-6","29-6","30-6","0-7","1-7","2-7","3-7","4-7","5-7","6-7","7-7","8-7","9-7","10-7","11-7","12-7","13-7","14-7","15-7","16-7","17-7","18-7","19-7","20-7","21-7","22-7","26-7","27-7","28-7","29-7","30-7","0-8","1-8","2-8","3-8","4-8","5-8","6-8","7-8","8-8","9-8","10-8","11-8","12-8","13-8","14-8","15-8","16-8","17-8","18-8","19-8","20-8","21-8","22-8","23-8","0-9","1-9","2-9","3-9","4-9","5-9","6-9","7-9","8-9","9-9","10-9","11-9","12-9","13-9","14-9","15-9","16-9","17-9","18-9","19-9","20-9","21-9","22-9","23-9","0-10","1-10","2-10","3-10","4-10","5-10","6-10","7-10","8-10","9-10","10-10","11-10","12-10","13-10","14-10","15-10","16-10","17-10","18-10","19-10","20-10","21-10","22-10","23-10","0-11","1-11","2-11","3-11","4-11","5-11","6-11","7-11","8-11","9-11","10-11","11-11","12-11","13-11","14-11","15-11","16-11","17-11","18-11","19-11","20-11","21-11","22-11","23-11","0-12","1-12","2-12","3-12","4-12","5-12","6-12","7-12","8-12","9-12","10-12","11-12","12-12","13-12","14-12","15-12","16-12","17-12","18-12","19-12","20-12","21-12","22-12","23-12","0-13","1-13","2-13","3-13","4-13","5-13","6-13","7-13","8-13","9-13","10-13","11-13","12-13","13-13","14-13","15-13","16-13","17-13","18-13","19-13","20-13","21-13","22-13","23-13","0-14","1-14","2-14","3-14","4-14","5-14","6-14","7-14","8-14","9-14","10-14","11-14","12-14","13-14","14-14","15-14","16-14","17-14","18-14","19-14","20-14","21-14","22-14","23-14","0-15","1-15","2-15","3-15","4-15","5-15","6-15","7-15","8-15","9-15","10-15","11-15","12-15","13-15","14-15","15-15","16-15","17-15","18-15","19-15","20-15","21-15","22-15","23-15","24-15","0-16","1-16","2-16","3-16","4-16","5-16","6-16","7-16","8-16","9-16","10-16","11-16","12-16","13-16","14-16","15-16","16-16","17-16","18-16","19-16","20-16","21-16","22-16","23-16","24-16","0-17","1-17","2-17","3-17","4-17","5-17","6-17","7-17","8-17","9-17","10-17","11-17","12-17","13-17","14-17","15-17","16-17","17-17","18-17","19-17","20-17","21-17","22-17","23-17","24-17","0-18","1-18","2-18","3-18","4-18","5-18","6-18","7-18","8-18","9-18","10-18","11-18","12-18","13-18","14-18","15-18","16-18","17-18","18-18","19-18","20-18","21-18","22-18","23-18","24-18","0-19","1-19","2-19","3-19","4-19","5-19","6-19","7-19","8-19","9-19","10-19","11-19","12-19","13-19","14-19","15-19","16-19","17-19","18-19","19-19","20-19","21-19","22-19","23-19","24-19","0-20","1-20","2-20","3-20","4-20","5-20","6-20","7-20","8-20","9-20","10-20","11-20","12-20","13-20","14-20","15-20","16-20","17-20","18-20","19-20","20-20","21-20","22-20","23-20","24-20","0-21","1-21","2-21","3-21","4-21","5-21","6-21","7-21","8-21","9-21","10-21","11-21","12-21","13-21","14-21","15-21","16-21","17-21","18-21","19-21","20-21","21-21","22-21","23-21","24-21","0-22","1-22","2-22","3-22","4-22","5-22","6-22","7-22","8-22","9-22","10-22","11-22","12-22","13-22","14-22","15-22","16-22","17-22","18-22","19-22","20-22","21-22","22-22","23-22","24-22","0-23","1-23","2-23","3-23","4-23","5-23","6-23","7-23","8-23","9-23","10-23","11-23","12-23","13-23","14-23","15-23","16-23","17-23","18-23","19-23","20-23","21-23","22-23","23-23","24-23","1-24","2-24","3-24","4-24","5-24","6-24","7-24","8-24","9-24","10-24","11-24","12-24","13-24","14-24","15-24","16-24","17-24","18-24","19-24","20-24","21-24","22-24","23-24","24-24","2-25","3-25","4-25","5-25","6-25","7-25","8-25","9-25","10-25","11-25","12-25","13-25","14-25","15-25","16-25","17-25","18-25","19-25","20-25","21-25","10-26","11-26","12-26","13-26","14-26","15-26","16-26","17-26","18-26","19-26","20-26","21-26"]}},"version":"20261111t2"};

diff --git a/index.html b/index.html
@@ -34,5 +34,5 @@
 <p>Kontinentální předlohu Tary, Nové Dálavy a Lendor nakreslila Jana Žižková. Atlas jejich kresbu převádí do jednotného dálavského stylu. Jižní pokračování vychází z pracovního listu KO2c. U regionálních listů uvádíme autora, pokud je doložen.</p>
 <p><a href="?misto=Ostrovy%20z%C3%A1%C5%99%C3%ADc%C3%ADho%20slunce">Ostrovy zářícího slunce</a> popisuje kapitola B modulu <i>Nemrtví a světlonoši</i>. Přesnou polohu souostroví a tvary břehů atlas navrhuje jako hypotézu.</p>
 <p><a href="dalavy-detail/">Objekty a vrstvy rekonstrukce Dálav</a></p><p><a href="listy.html">Původní mapy Tary, Dálav a Lendoru</a> · <a href="https://asterionrpg.cz/index.php/mapy.html">Katalog map Asterionu</a></p><p><a href="index.html?styl=s&amp;oblast=dalavy">Varianta S</a>: Nové Dálavy se symboly a texturami Mikea Schleyho / ProFantasy. Geografie podle Jany Žižkové, doplňkové figurky generované. Varianta je rozšířená na severozápad Tary, Horní knížectví a Stíny jihu a sever Tary přes Erin a Khelegovy hory po Marellion. <a href="varianta-s/index.html">Podrobnosti varianty</a>.</p><p><a href="index.html?styl=d&amp;oblast=dalavy">Styl D</a>: Nové Dálavy ve stylu Herwina Wielinka. Společná geografie, jiné symboly a podklady; také pro severozápad Tary, Horní knížectví a Stíny jihu a sever Tary přes Erin a Khelegovy hory po Marellion. <a href="varianta-d/index.html">Podklady a autorství</a>.</p></dialog>
-<script src="data.js?v=20261111a"></script><script src="tvary.js"></script><script src="tereny/index.js"></script><script src="navaznosti.js"></script><script src="dalavsky/index.js?v=20261111t"></script><script src="varianta-s/viewer.js?v=20261111t"></script><script src="varianta-d/viewer.js?v=20261111t"></script><script src="zapad/viewer.js?v=20261111t"></script>
-<script src="souvisla-tara/config.js?v=20261111t"></script><script src="souvisla-tara/viewer.js?v=20261111t"></script><script src="sever/config.js?v=20261111t"></script><script src="sever/routes.js?v=20261111t"></script><script src="sever/viewer.js?v=20261111t"></script><script src="regiony.js?v=20261111t"></script><script src="ostrovy-slunce.js"></script><script src="temata-data.js"></script><script src="temata.js"></script><script src="mistopis.js?v=20261111t"></script><script src="atlas.js?v=20261111t"></script></body></html>
+<script src="data.js?v=20261111a"></script><script src="tvary.js"></script><script src="tereny/index.js"></script><script src="navaznosti.js"></script><script src="dalavsky/index.js?v=20261111t2"></script><script src="varianta-s/viewer.js?v=20261111t2"></script><script src="varianta-d/viewer.js?v=20261111t2"></script><script src="zapad/viewer.js?v=20261111t2"></script>
+<script src="souvisla-tara/config.js?v=20261111t2"></script><script src="souvisla-tara/viewer.js?v=20261111t2"></script><script src="sever/config.js?v=20261111t2"></script><script src="sever/routes.js?v=20261111t2"></script><script src="sever/viewer.js?v=20261111t2"></script><script src="regiony.js?v=20261111t2"></script><script src="ostrovy-slunce.js"></script><script src="temata-data.js"></script><script src="temata.js"></script><script src="mistopis.js?v=20261111t2"></script><script src="atlas.js?v=20261111t2"></script></body></html>
